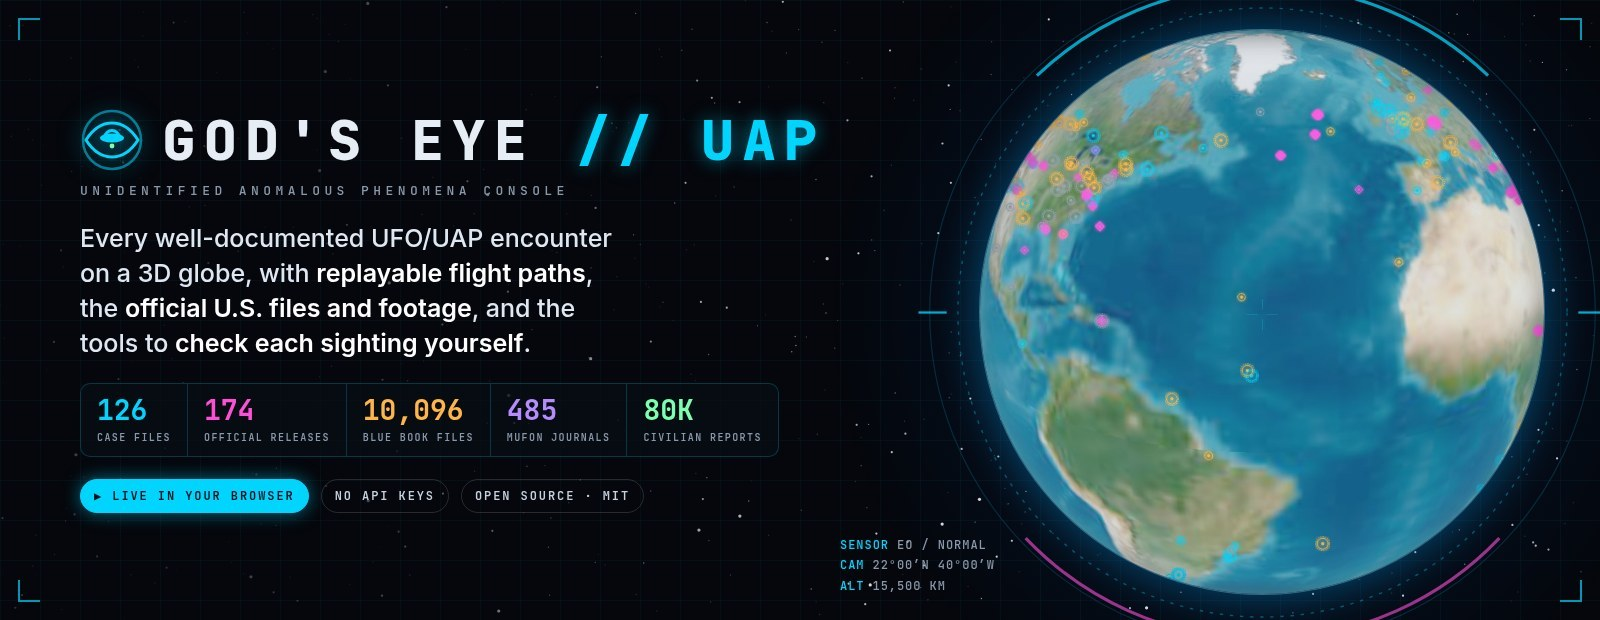
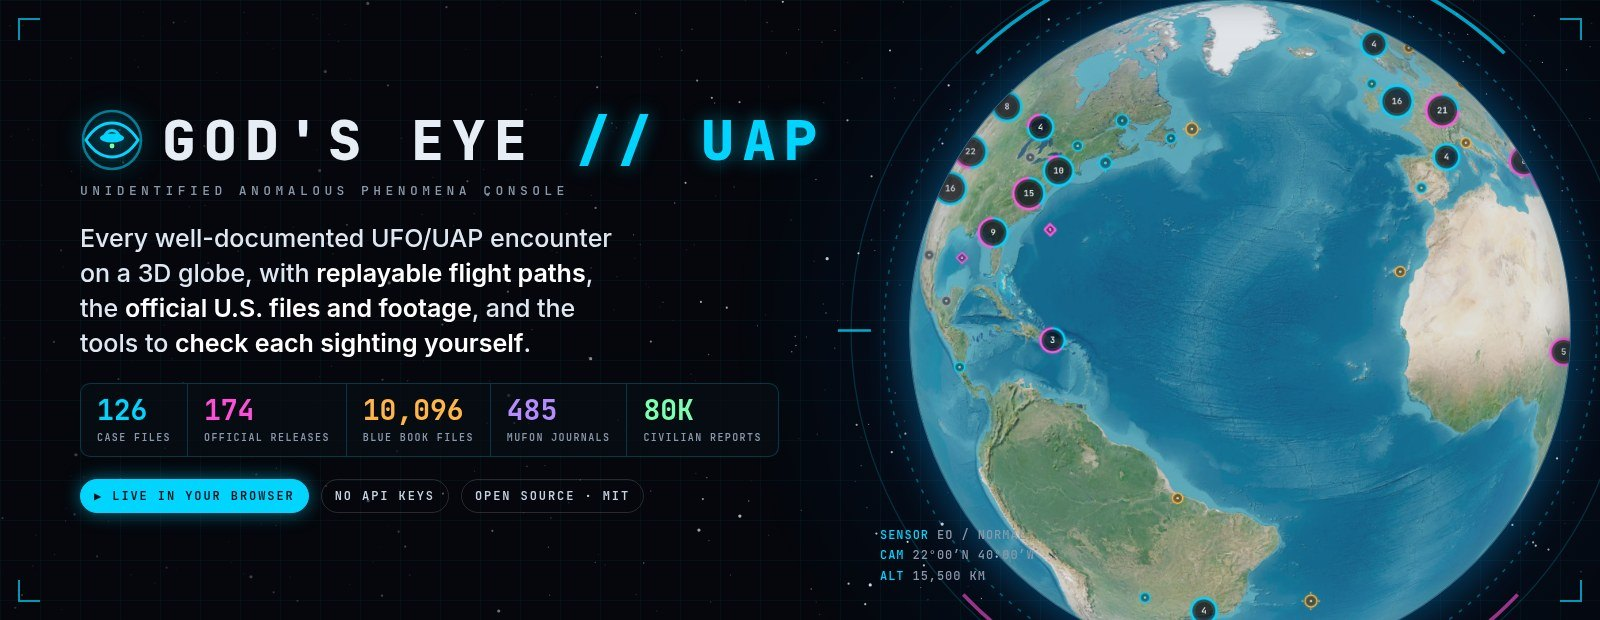
README: map styles, lighting, NASA sky, that day from orbit; new pictures
- New section on map styles, day/night lighting and the star sky, with a
  2x2 of the map styles and night/day globes; "That day from orbit" under
  the checks, shown on the O'Hare case.
- Keyboard table: D, F, O and the arrow keys; M is now the Map panel.
- Fresh screenshots of the globe and banner with the current interface and
  NASA's star map. City lights are brighter at night (moonlit coasts).

Claude-Session: https://claude.ai/code/session_01YaFXtAqDSc1NSu64ZMphwN

Changed region(s): [[0.5312, 0.0, 1.0, 1.0]]

diff --git a/src/main.js b/src/main.js
@@ -487,8 +487,9 @@ function showNightLights(on) {
     basemap.keepNamesOnTop();
     nightLights.dayAlpha = 0;
     nightLights.nightAlpha = 1;
-    nightLights.brightness = 1.9;
-    nightLights.contrast = 1.25;
+    nightLights.brightness = 2.2; // moonlit coastlines, cities that glow
+    nightLights.contrast = 1.3;
+    nightLights.gamma = 1.35;
   }
   if (nightLights) nightLights.show = on;
 }

diff --git a/README.md b/README.md
@@ -50,7 +50,9 @@ It runs in your browser with nothing to install and no sign-up or API keys.
 - **Filters stay in view** as chips above the results, each removable, with **RESET ALL**. **Back and Forward** step through the records you opened, and every record has its own link.
 - **Group or ungroup** nearby markers (<kbd>C</kbd>). Labels that would overlap are hidden by priority, so the view stays readable.
 - **Share any view**: the address bar keeps the camera position.
-- **Reset** (<kbd>R</kbd>, or the button beside the globe) flies back to the whole globe, north up. The **＋ / −** buttons zoom toward the centre of the screen, while wheel zoom heads for the pointer.
+- **Reset** (<kbd>R</kbd>, or the button beside the globe) flies back to the whole globe, north up. Zooming in with the wheel heads for the pointer; zooming out (wheel, **−** button or key) stays centred and levels the view as it rises, so the globe ends up in the middle.
+- **Fly with the keyboard**: arrow keys move over the ground, <kbd>Shift</kbd>+arrows turn and tilt, <kbd>O</kbd> orbits slowly around the middle of the screen, and <kbd>F</kbd> hides every panel for a clean view of the globe.
+- **Star cases** (☆ in a case file) to keep your own list in this browser, then show only those under *Filters › Saved*. **⚄ Random** opens a case with something to see, and first-time visitors get a short "start here" card.
 
 ### ✈ Replay the encounter, from the witness's seat
 
@@ -73,14 +75,31 @@ It runs in your browser with nothing to install and no sign-up or API keys.
 
 <sub><b>Betty and Barney Hill, 1961.</b> The car's route and the craft's reported path replayed over the White Mountains, cycling through Normal → NVG → FLIR → Ironbow.</sub>
 
-There are five sensor looks, rendered as real-time post-processing shaders (keys <kbd>1</kbd>–<kbd>5</kbd>):
+There are five sensor looks, rendered as real-time post-processing shaders (keys <kbd>1</kbd>–<kbd>5</kbd>). They keep the picture sharp at any zoom, so markers and labels stay readable; the look comes from tone, grain and scanlines, not blur:
 - **Normal**
 - **NVG**: image-intensifier gain, shot noise and raster lines.
-- **FLIR white-hot**: a low-resolution microbolometer look.
-- **FLIR Ironbow**
-- **CRT**
+- **FLIR white-hot** and **FLIR Ironbow**, with a cold-to-hot scale on screen.
+- **CRT**: scanlines, a shadow mask and a slightly curved glass.
 
 **3D buildings are free.** OpenStreetMap buildings (via OpenFreeMap) appear as you zoom into any town. If you want Google's photorealistic 3D tiles instead, paste your own key under **MAP**.
+
+### 🗺 Map styles, day and night, and a real sky
+
+<img src="docs/media/map-styles.jpg" alt="The same view of Arizona on the satellite map with place names, and on the dark, streets and topographic maps" width="100%" />
+
+<table>
+<tr>
+<td width="50%"><img src="docs/media/night-globe.jpg" alt="Night lighting: the Americas at night with city lights, the case markers and NASA's star map behind the globe" /></td>
+<td width="50%"><img src="docs/media/day-globe.jpg" alt="Day: the globe of cases against NASA's star map" /></td>
+</tr>
+<tr>
+<td><sub><b>Night</b> (<kbd>D</kbd> cycles the lighting): the side you look at turns to night, with NASA's Black Marble city lights.</sub></td>
+<td><sub><b>The stars are real</b>: NASA's Deep Star Maps 2020, 1.7 billion stars from Hipparcos, Tycho and Gaia, in their true positions behind the globe.</sub></td>
+</tr>
+</table>
+
+- **Map style** (**MAP** or <kbd>M</kbd>): Satellite, Dark, Streets or Topographic, all keyless. Over the satellite map you can add **place names and borders**, which fade out close in where 3D buildings take over.
+- **Lighting**: *Auto* lights an open case by the sun at the moment it happened, with city lights on the night side; *Day* and *Night* hold that look everywhere; *Off* keeps the globe evenly lit.
 
 ### 🔭 Check it yourself
 
@@ -95,6 +114,9 @@ There are five sensor looks, rendered as real-time post-processing shaders (keys
   Aircraft are listed as not checkable. Above, a bright, still light low in the WSW at dusk comes back as **Venus**.
 - **The sky at that moment**, for every case: Sun, Moon phase, planets and bright stars. Objects named in the official explanation are circled. For the Hills in 1961, Jupiter sits low in the SSW beside the Moon, just as the Air Force file says.
 - **Historical weather** since 1940 (ERA5): cloud layers, wind at 10 m and 100 m, and whether a slow object moved with the wind.
+- **That day from orbit**, for cases since 2000: NASA's true-colour picture of the whole Earth that day (MODIS on the Terra satellite) laid over the globe. Below, O'Hare on 7 November 2006 under the solid overcast the witnesses described.
+
+  <img src="docs/media/orbit-day.jpg" alt="The O'Hare case: NASA's satellite picture of 7 November 2006 over the globe shows Chicago under solid cloud; the dossier shows 100% overcast and the THAT DAY FROM ORBIT button" width="100%" />
 - **Military airspace**: which FAA restricted or warning areas a case falls in.
 
 <table>
@@ -238,13 +260,15 @@ Restrict browser keys to your domain, because anything built into the site is pu
 |---|---|---|---|
 | <kbd>1</kbd>–<kbd>5</kbd> | Sensor modes | <kbd>E</kbd> | What did I see? |
 | <kbd>/</kbd> | Search | <kbd>V</kbd> | Witness view (during playback) |
-| <kbd>[</kbd> <kbd>]</kbd> | Previous / next case | <kbd>M</kbd> | 3D map settings |
+| <kbd>[</kbd> <kbd>]</kbd> | Previous / next case | <kbd>M</kbd> | Map: style, place names, lighting, 3D |
 | <kbd>Space</kbd> | Play / pause the flight path | <kbd>G</kbd> | Files library (government + MUFON) |
 | <kbd>T</kbd> | Guided tour | <kbd>L</kbd> | Log a sighting |
 | <kbd>R</kbd> | Reset view (whole globe, north up) | <kbd>+</kbd> <kbd>−</kbd> | Zoom toward the centre |
 | <kbd>N</kbd> | Near me | <kbd>S</kbd> | Statistics |
 | <kbd>C</kbd> | Group nearby markers on / off | <kbd>Esc</kbd> | Close, or back to the previous dialog |
 | <kbd>H</kbd> | Hide the HUD | Browser Back | The record you had open before |
+| <kbd>D</kbd> | Lighting: auto → day → night → off | <kbd>F</kbd> | Clean view: hide every panel |
+| <kbd>O</kbd> | Orbit around the middle of the screen | ← ↑ → ↓ | Fly the camera (<kbd>Shift</kbd>: turn and tilt) |
 
 </details>
 
@@ -295,6 +319,7 @@ flowchart LR
 |---|---|
 | Globe, imagery, terrain, 3D tiles, key handling | `src/app/viewer.js` |
 | Rendering on demand, device quality, dynamic resolution | `src/app/quality.js` |
+| Map styles and place names; centred zoom-out; keyboard flying and orbit | `src/app/basemap.js`, `src/app/zoom.js`, `src/app/flycam.js` |
 | NVG / FLIR / Ironbow / CRT shaders | `src/app/effects.js` |
 | Case markers, flight paths & playback, witness view | `src/layers/items.js`, `src/layers/tracks.js` |
 | Label decluttering; Blue Book, GEIPAN, MUFON, research-archive & NUFORC points, satellites, launches, airspace, buildings | `src/layers/*.js` |
@@ -306,8 +331,9 @@ flowchart LR
 
 ```
 src/
-  app/        viewer.js (globe, imagery, terrain, 3D tiles) · effects.js (NVG/FLIR/CRT shaders)
+  app/        viewer.js (globe, imagery, terrain, 3D tiles, star sky) · effects.js (NVG/FLIR/CRT shaders)
               quality.js (render on demand, device quality) · horizon.js (markers hidden behind the Earth)
+              basemap.js (map styles, place names) · zoom.js (centred zoom-out) · flycam.js (keys, orbit)
   data/       cases/ (curated case files) · govFiles.js · regions.js · taxonomy.js · items.js
   layers/     items.js (case & release markers) · tracks.js (flight paths + playback)
               points.js (Blue Book / GEIPAN / MUFON / NUFORC) · satellites.js (live SGP4)
@@ -323,6 +349,7 @@ src/
 scripts/      sync-dvids.mjs · build-bluebook.mjs · build-nuforc.mjs · build-airspace.mjs
               build-mufon.mjs · build-geipan.mjs · build-journals.mjs · build-textindex.mjs
               build-cards.mjs (case preview images) · indexnow.mjs (search engines)
+              build-skybox.py (NASA star map → sky box)
               verify-media.mjs · check-links.mjs · fix-cesium-base.mjs
               lib/ (GeoNames gazetteer · case-pages.mjs: a page per case + sitemap, made at build)
 public/cards/ the preview image for each case page
